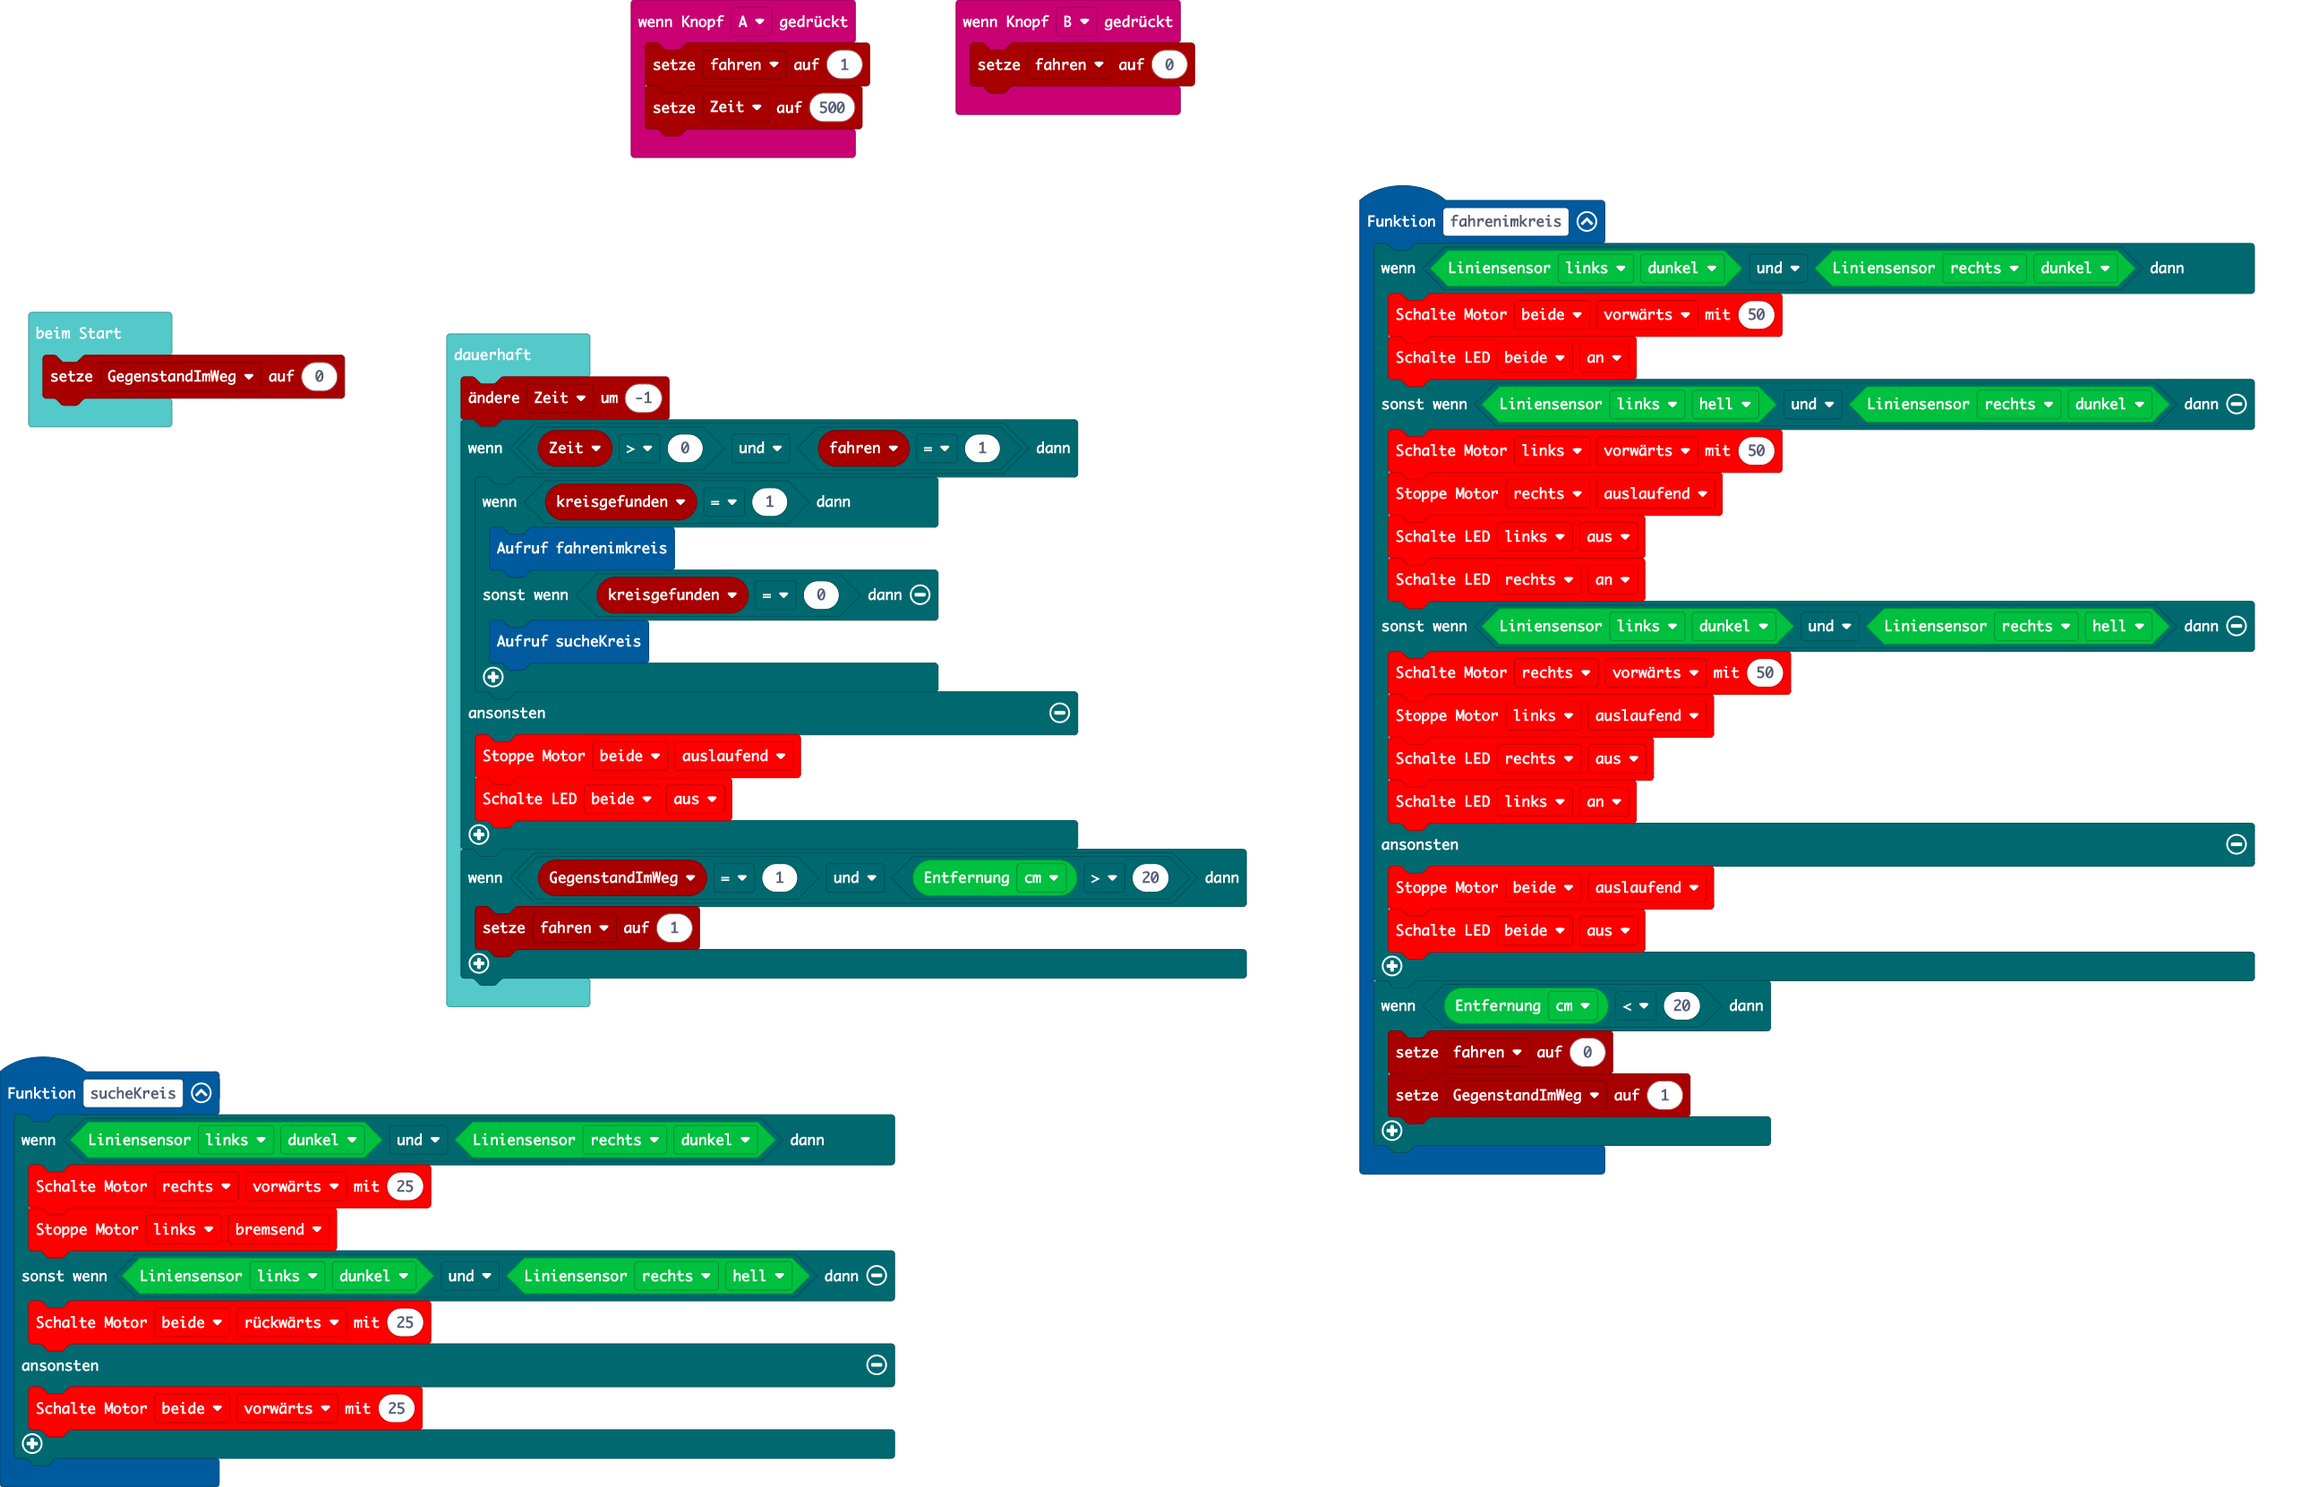
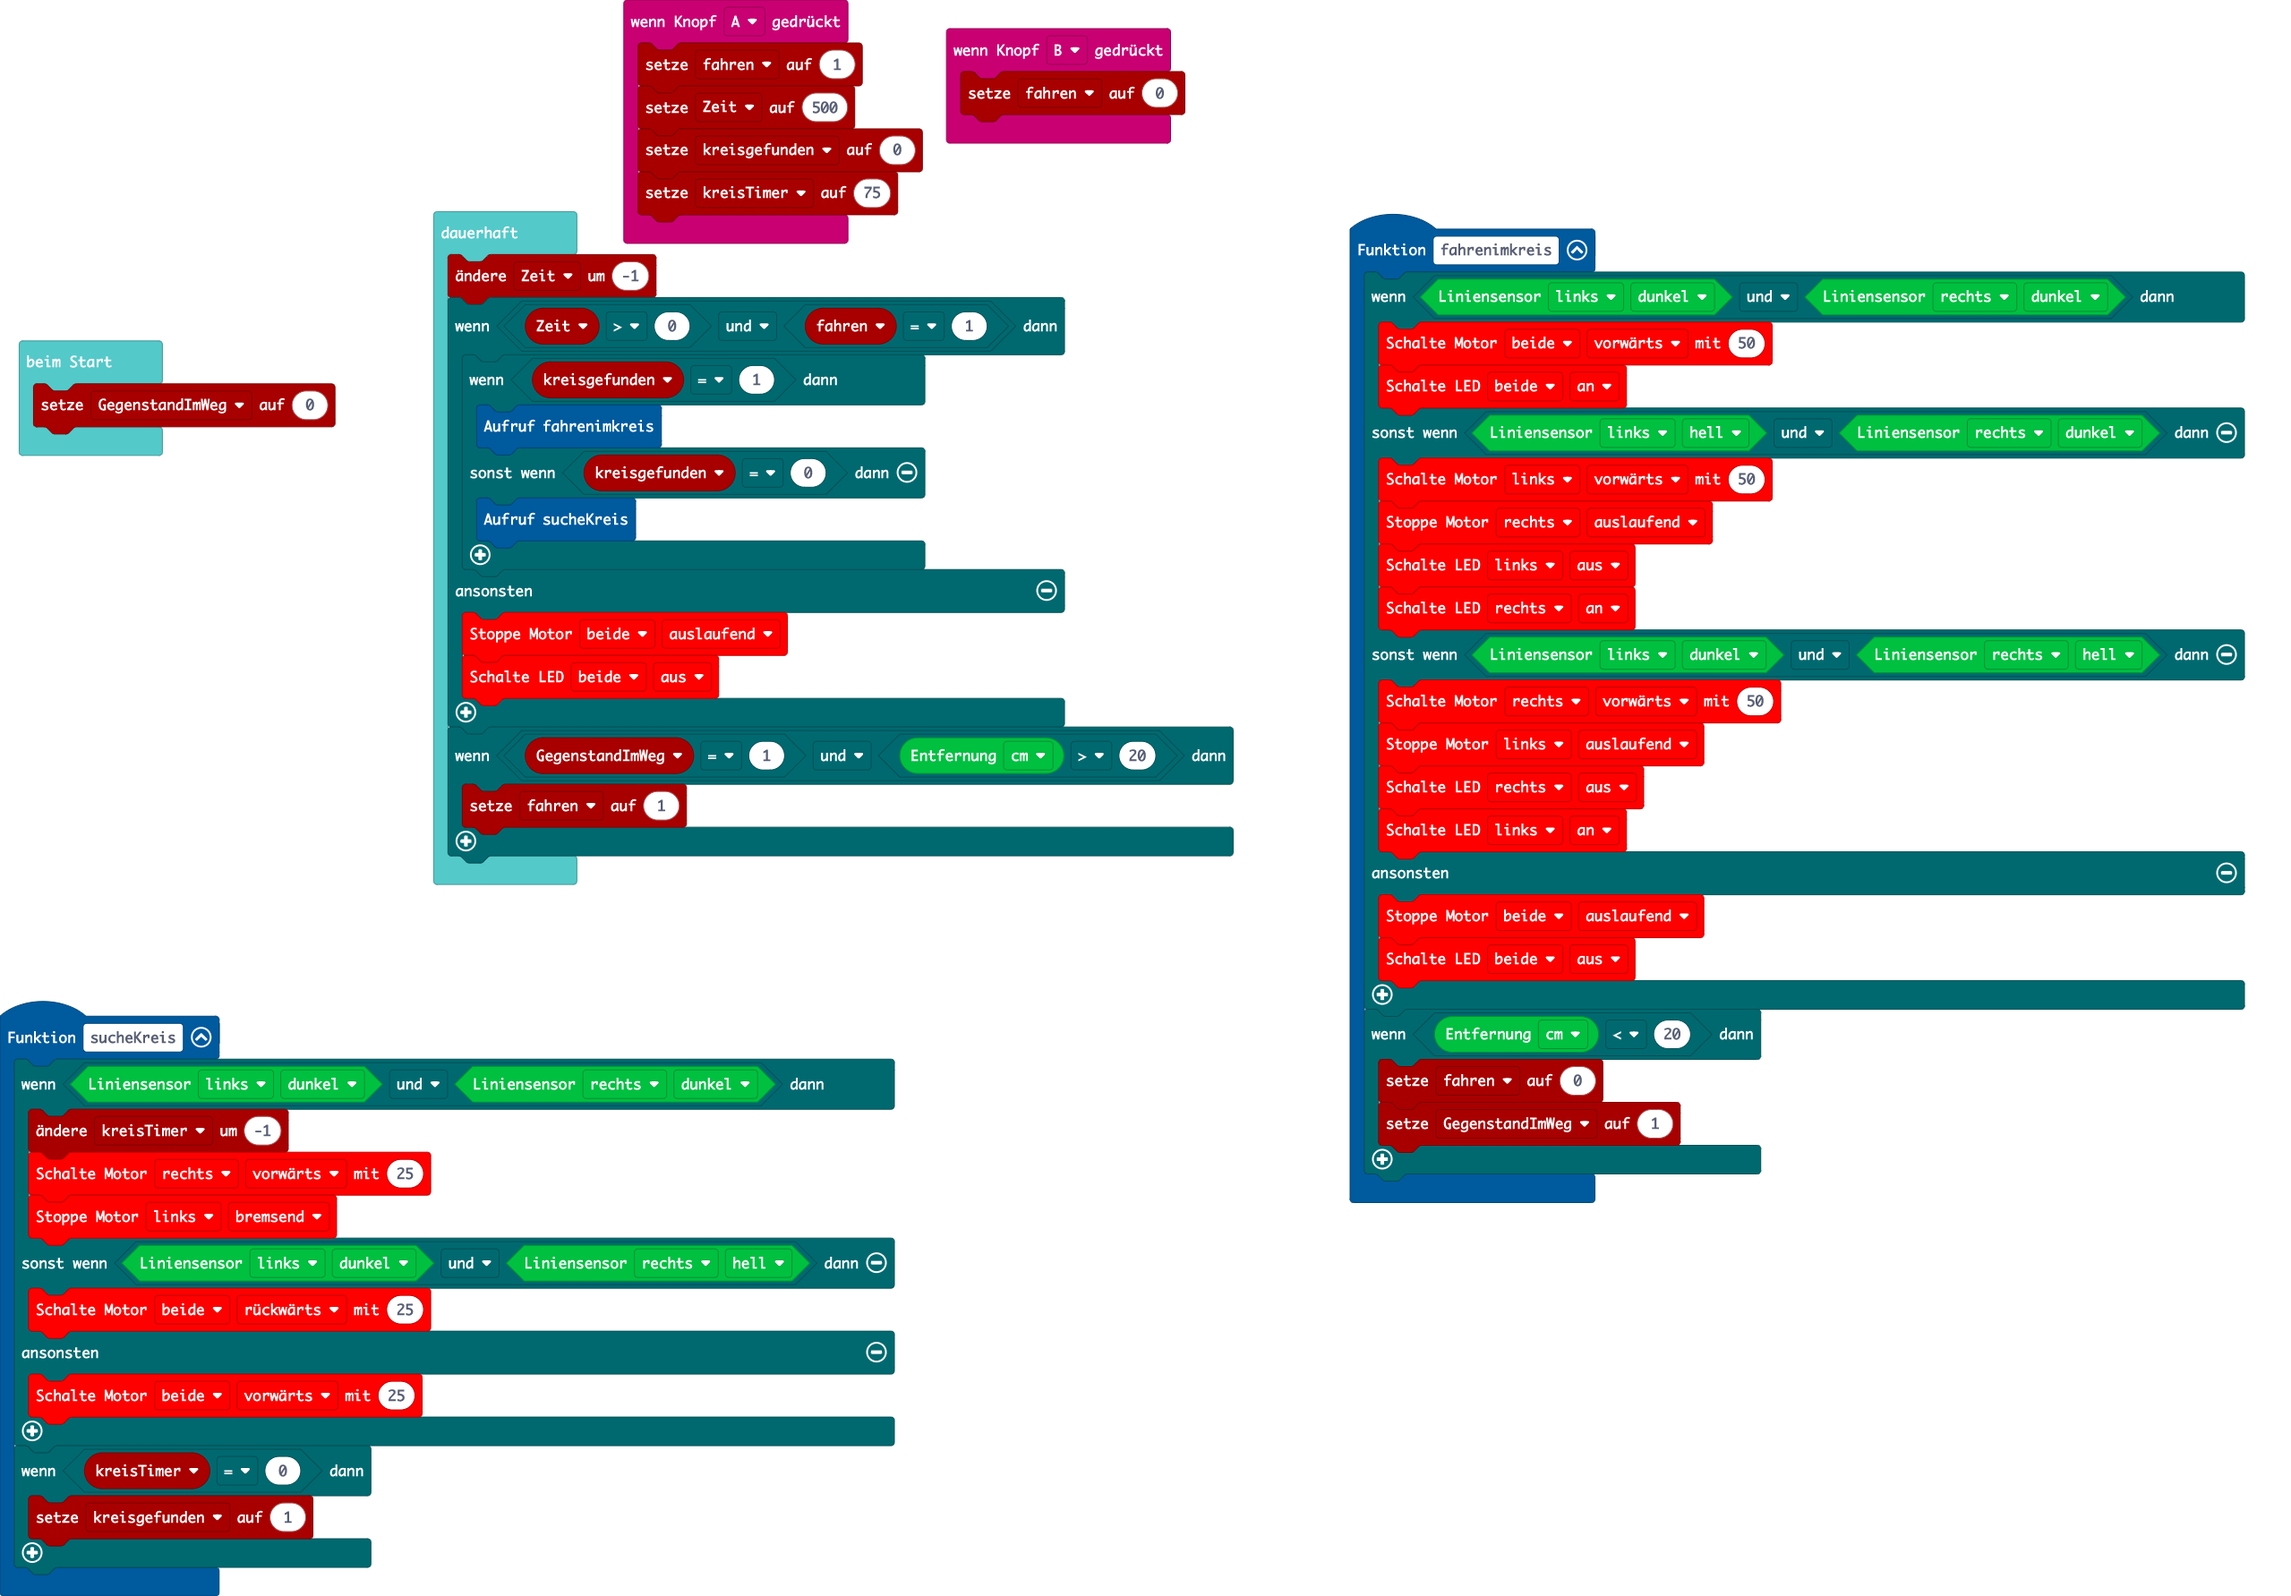
Aktualisiere main.blocks, main.ts

diff --git a/main.ts b/main.ts
@@ -1,5 +1,6 @@
 function sucheKreis () {
     if (callibot.readLineSensor(KSensor.links, KSensorStatus.dunkel) && callibot.readLineSensor(KSensor.rechts, KSensorStatus.dunkel)) {
+        kreisTimer += -1
         callibot.motor(KMotor.rechts, KDir.vorwärts, 25)
         callibot.motorStop(KMotor.links, KStop.Bremsen)
     } else if (callibot.readLineSensor(KSensor.links, KSensorStatus.dunkel) && callibot.readLineSensor(KSensor.rechts, KSensorStatus.hell)) {
@@ -7,10 +8,15 @@ function sucheKreis () {
     } else {
         callibot.motor(KMotor.beide, KDir.vorwärts, 25)
     }
+    if (kreisTimer == 0) {
+        kreisgefunden = 1
+    }
 }
 input.onButtonPressed(Button.A, function () {
     fahren = 1
     Zeit = 500
+    kreisgefunden = 0
+    kreisTimer = 75
 })
 function fahrenimkreis () {
     if (callibot.readLineSensor(KSensor.links, KSensorStatus.dunkel) && callibot.readLineSensor(KSensor.rechts, KSensorStatus.dunkel)) {
@@ -40,12 +46,13 @@ input.onButtonPressed(Button.B, function () {
 })
 let Zeit = 0
 let fahren = 0
+let kreisgefunden = 0
+let kreisTimer = 0
 let GegenstandImWeg = 0
 GegenstandImWeg = 0
 basic.forever(function () {
     Zeit += -1
     if (Zeit > 0 && fahren == 1) {
-        let kreisgefunden = 0
         if (kreisgefunden == 1) {
             fahrenimkreis()
         } else if (kreisgefunden == 0) {
